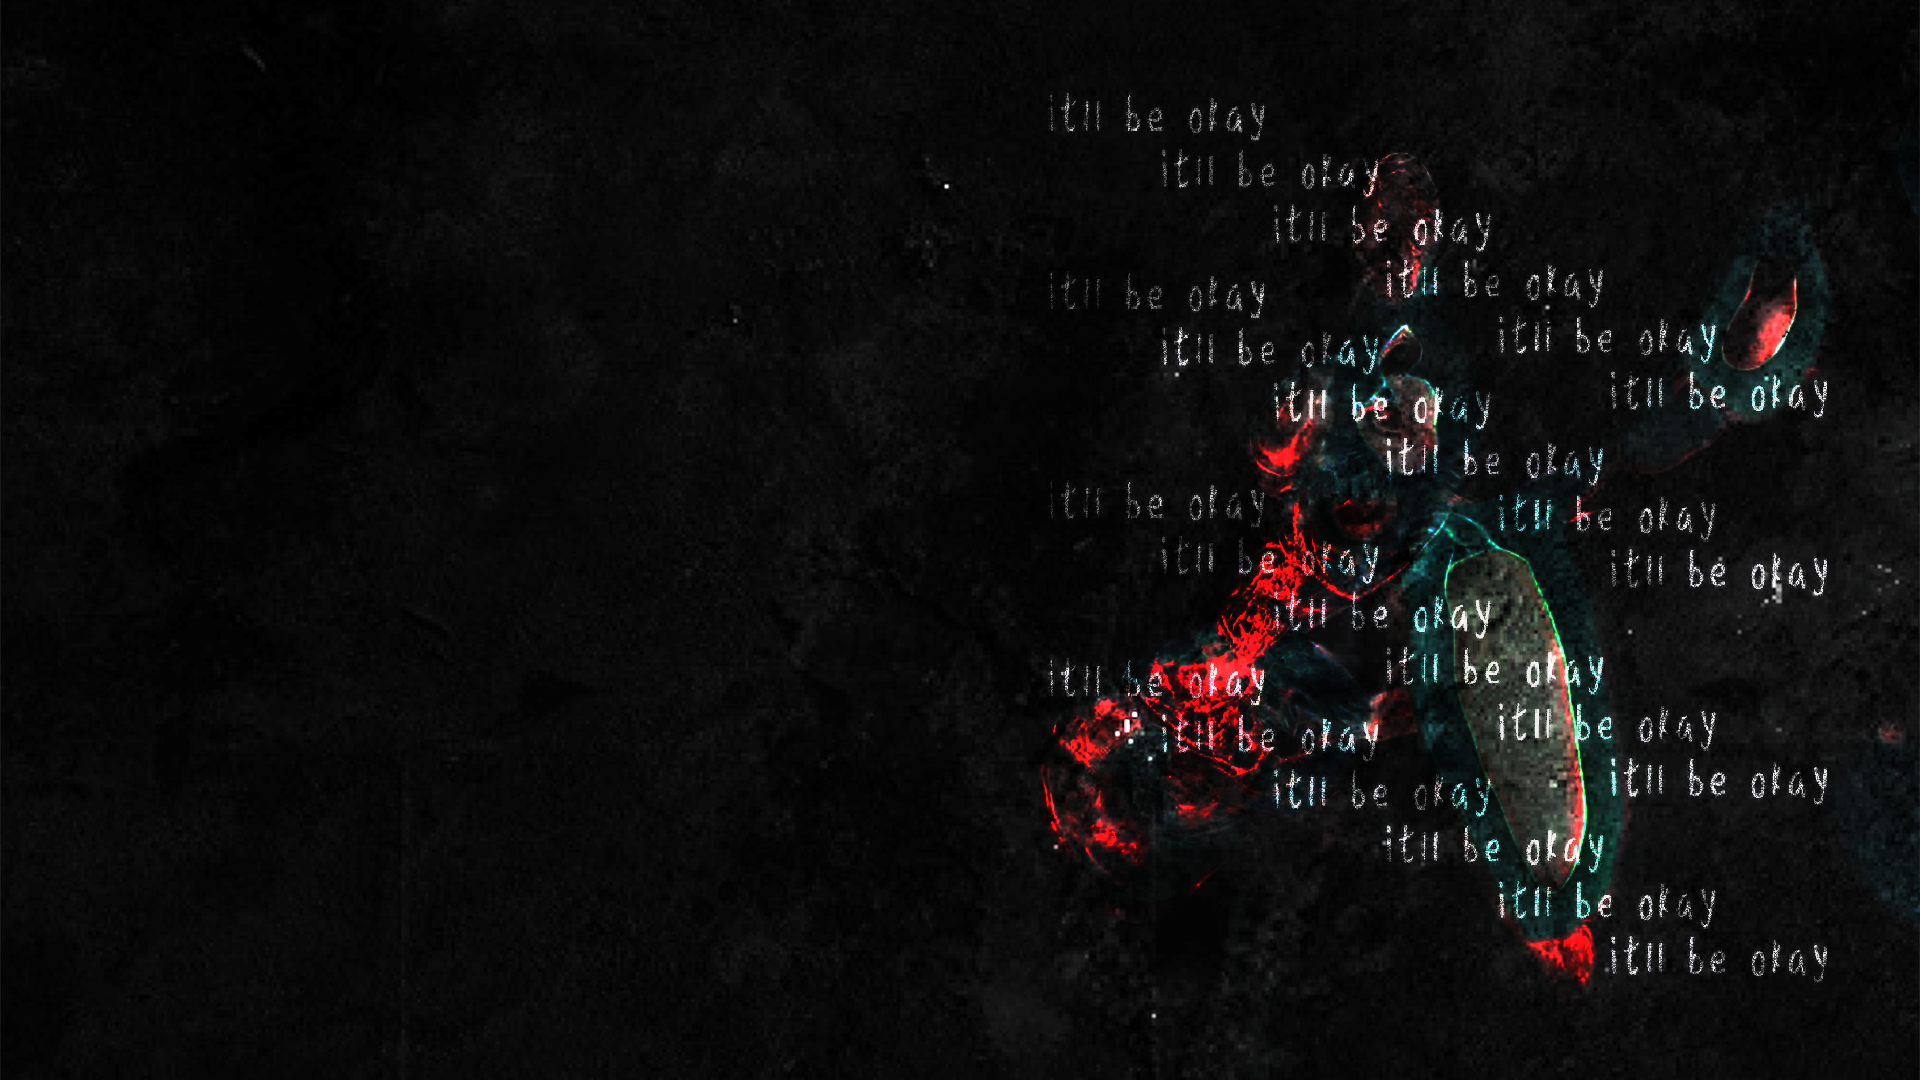
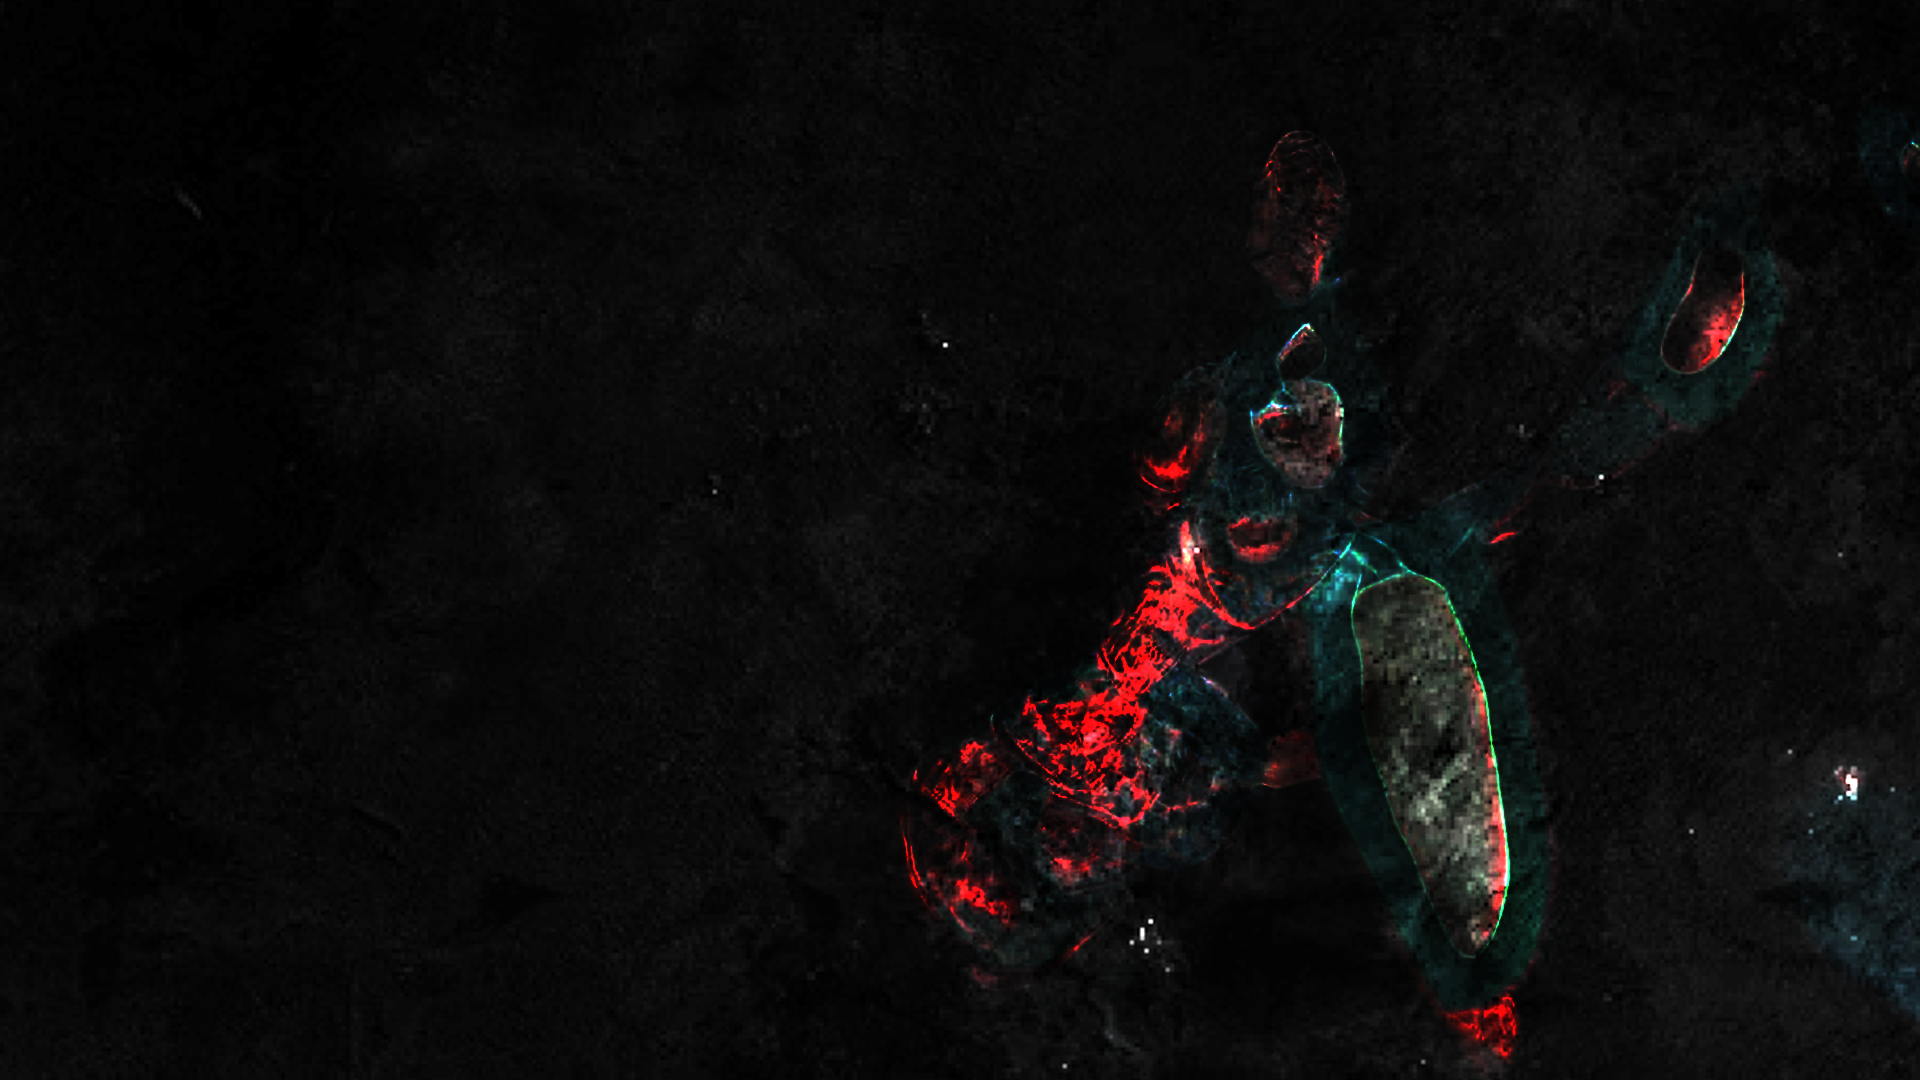
aaaghh fix background AGAIN
AAAAGH

diff --git a/index.html b/index.html
@@ -5,48 +5,50 @@
   <title>it'll be okay x6</title>
 </head>
 <body>
-  <div id="middleScreen">
-    <div id="header">
-      <a href="https://drive.google.com/drive/folders/1lpOIEraEw4B-jjDdMroK1a7d6sa1eKTo?usp=sharing">
-        <img id="tracklist" src="./assets/text/tracklist.png"></img> <!-- header -->
-      </a>
-    </div>
-    <br> <!-- space -->
-    <div id="songlist">
-      <div>
-        <a href="https://drive.google.com/drive/folders/17gJEFwXboZP-fIZjvs8nn2LSvnZsPOXo?usp=sharing">
-          <img id="song" src="./assets/text/itllbeokayx6.png"></img> <!-- x6 -->
+  <div id="mainBackground">
+    <div id="middleScreen">
+      <div id="header">
+        <a href="https://drive.google.com/drive/folders/1lpOIEraEw4B-jjDdMroK1a7d6sa1eKTo?usp=sharing">
+          <img id="tracklist" src="./assets/text/tracklist.png"></img> <!-- header -->
         </a>
       </div>
-      <div>
-        <a href="https://drive.google.com/drive/folders/1H8RxULn43X79-I_sPCsF4083NaUL2MGI?usp=sharing">
-          <img id="song" src="./assets/text/lastinglust.png"></img> <!-- lasting -->
-        </a>
-      </div>
-      <div>
-        <a href="https://drive.google.com/drive/folders/1uQntwZzCaOGqaaQS0omPjJ6LC6_J9vMd?usp=sharing">
-          <img id="song" src="./assets/text/liminal.png"></img> <!-- liminal -->
-        </a>
-      </div>
-      <div>
-        <a href="https://drive.google.com/drive/folders/1UtBQ6q6fjbsXjHcwzQztWskgAVCw8jxI?usp=sharing">
-          <img id="song" src="./assets/text/forefront.png"></img> <!-- forefront -->
-        </a>
-      </div>
-      <div>
-        <a href="https://drive.google.com/drive/folders/1A419otRMHoOAGSP7Kop-WDXGqHPARY1i?usp=sharing">
-          <img id="song" src="./assets/text/nighttime.png"></img> <!-- nighttime -->
-        </a>
-      </div>
-      <div>
-        <a href="https://drive.google.com/drive/folders/1Uyk5dNYbOZbD9-vIhmKkDiyzB9v3gNue?usp=sharing">
-          <img id="song" src="./assets/text/pantheon.png"></img> <!-- pantheon -->
-        </a>
-      </div>
-      <div>
-        <a href="https://drive.google.com/drive/folders/1-nmvquLfPIroLQEDBPxIoez4ukEXZ9mx?usp=sharing">
-          <img id="song" src="./assets/text/terminal.png"></img> <!-- terminal -->
-        </a>
+      <br> <!-- space -->
+      <div id="songlist">
+        <div>
+          <a href="https://drive.google.com/drive/folders/17gJEFwXboZP-fIZjvs8nn2LSvnZsPOXo?usp=sharing">
+            <img id="song" src="./assets/text/itllbeokayx6.png"></img> <!-- x6 -->
+          </a>
+        </div>
+        <div>
+          <a href="https://drive.google.com/drive/folders/1H8RxULn43X79-I_sPCsF4083NaUL2MGI?usp=sharing">
+            <img id="song" src="./assets/text/lastinglust.png"></img> <!-- lasting -->
+          </a>
+        </div>
+        <div>
+          <a href="https://drive.google.com/drive/folders/1uQntwZzCaOGqaaQS0omPjJ6LC6_J9vMd?usp=sharing">
+            <img id="song" src="./assets/text/liminal.png"></img> <!-- liminal -->
+          </a>
+        </div>
+        <div>
+          <a href="https://drive.google.com/drive/folders/1UtBQ6q6fjbsXjHcwzQztWskgAVCw8jxI?usp=sharing">
+            <img id="song" src="./assets/text/forefront.png"></img> <!-- forefront -->
+          </a>
+        </div>
+        <div>
+          <a href="https://drive.google.com/drive/folders/1A419otRMHoOAGSP7Kop-WDXGqHPARY1i?usp=sharing">
+            <img id="song" src="./assets/text/nighttime.png"></img> <!-- nighttime -->
+          </a>
+        </div>
+        <div>
+          <a href="https://drive.google.com/drive/folders/1Uyk5dNYbOZbD9-vIhmKkDiyzB9v3gNue?usp=sharing">
+            <img id="song" src="./assets/text/pantheon.png"></img> <!-- pantheon -->
+          </a>
+        </div>
+        <div>
+          <a href="https://drive.google.com/drive/folders/1-nmvquLfPIroLQEDBPxIoez4ukEXZ9mx?usp=sharing">
+            <img id="song" src="./assets/text/terminal.png"></img> <!-- terminal -->
+          </a>
+        </div>
       </div>
     </div>
   </div>

diff --git a/style.css b/style.css
@@ -6,7 +6,6 @@
 body {
   background-image: url("./assets/bg.png");
   background-size: cover;
-  background-repeat: no-repeat;
 }
 
 #header {
